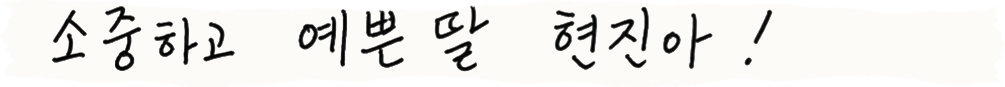
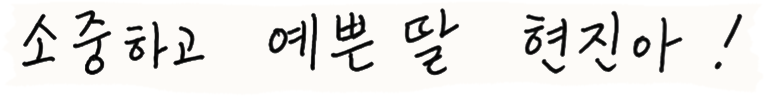
신부 부모님 편지를 문장 단위 다섯 조각으로 다시 재단 — 짧은 문장은 종이도 짧게, 가위 자국이 글자를 침범하거나 옆 줄이 딸려 들어오지 않도록 여백 안에서만 자르고, 조각마다 글씨 크기가 같아지도록 원본 비율로 표시. 신랑 편지는 흰 그라데이션을 넓히고 글씨를 그 한가운데에 조금 작게 배치

diff --git a/js/main.js b/js/main.js
@@ -284,6 +284,24 @@
     // 표시 순서는 config.js의 parents 항목 순서를 그대로 따릅니다
     document.getElementById("parents-list").innerHTML =
       Object.entries(P).map(([key, s]) => side(s, key)).join("");
+
+    /* 오려 붙인 편지 조각은 종이 길이가 제각각이라, 그대로 폭을 맞추면
+       짧은 문장일수록 글씨가 커 보입니다. 가장 긴 조각을 기준으로
+       원본 비율대로 폭을 지정해 어느 조각이든 글씨 크기가 같아지게 합니다. */
+    document.querySelectorAll(".parents__lines").forEach((box) => {
+      const imgs = [...box.querySelectorAll(".parents__line")];
+      if (!imgs.length) return;
+      let pending = imgs.length;
+      const fit = () => {
+        if (--pending > 0) return;
+        const max = Math.max(...imgs.map((i) => i.naturalWidth || 1));
+        imgs.forEach((i) => {
+          const w = i.naturalWidth || max;
+          i.style.width = `${(w / max * 100).toFixed(1)}%`;
+        });
+      };
+      imgs.forEach((i) => (i.complete ? fit() : (i.onload = i.onerror = fit)));
+    });
   }
 
   /* ═══════════ 3. 러브레터 (손글씨 편지) ═══════════ */

diff --git a/js/config.js b/js/config.js
@@ -109,16 +109,13 @@ const WEDDING_CONFIG = {
       who: "현진",
       family: "assets/parents/bride-family.jpg",
       letterImage: "assets/parents/bride-letter.jpg",
-      // 손편지를 한 줄씩 오려 붙인 조각들 (있으면 letterImage 대신 사용)
+      // 손편지를 문장 단위로 오려 붙인 조각들 (있으면 letterImage 대신 사용)
       letterLines: [
         "assets/parents/bride-letter/1.png",
         "assets/parents/bride-letter/2.png",
         "assets/parents/bride-letter/3.png",
         "assets/parents/bride-letter/4.png",
         "assets/parents/bride-letter/5.png",
-        "assets/parents/bride-letter/6.png",
-        "assets/parents/bride-letter/7.png",
-        "assets/parents/bride-letter/8.png",
       ],
       babies: ["assets/parents/bride-baby1.png", "assets/parents/bride-baby2.png"],
     },

diff --git a/css/style.css b/css/style.css
@@ -550,7 +550,7 @@ body {
 /* 글씨 대신 손글씨 이미지를 얹을 때 — 글과 같은 자리·같은 기울기 */
 .lt__hand-img {
   display: block;
-  width: 72%;
+  width: 64%;
   margin: 0 auto 22px;
   transform: rotate(-1deg);
   transform-origin: center;
@@ -577,7 +577,7 @@ body {
 .lt--bride .lt__fade,
 .lt--groom .lt__fade {
   bottom: -1px;
-  height: calc(48% + 2px);
+  height: calc(62% + 2px);
   background: linear-gradient(0deg,
     #fff 0%, rgba(255,255,255,.98) 18%, rgba(255,255,255,.82) 40%,
     rgba(255,255,255,.5) 62%, rgba(255,255,255,.18) 84%, rgba(255,255,255,0) 100%);
